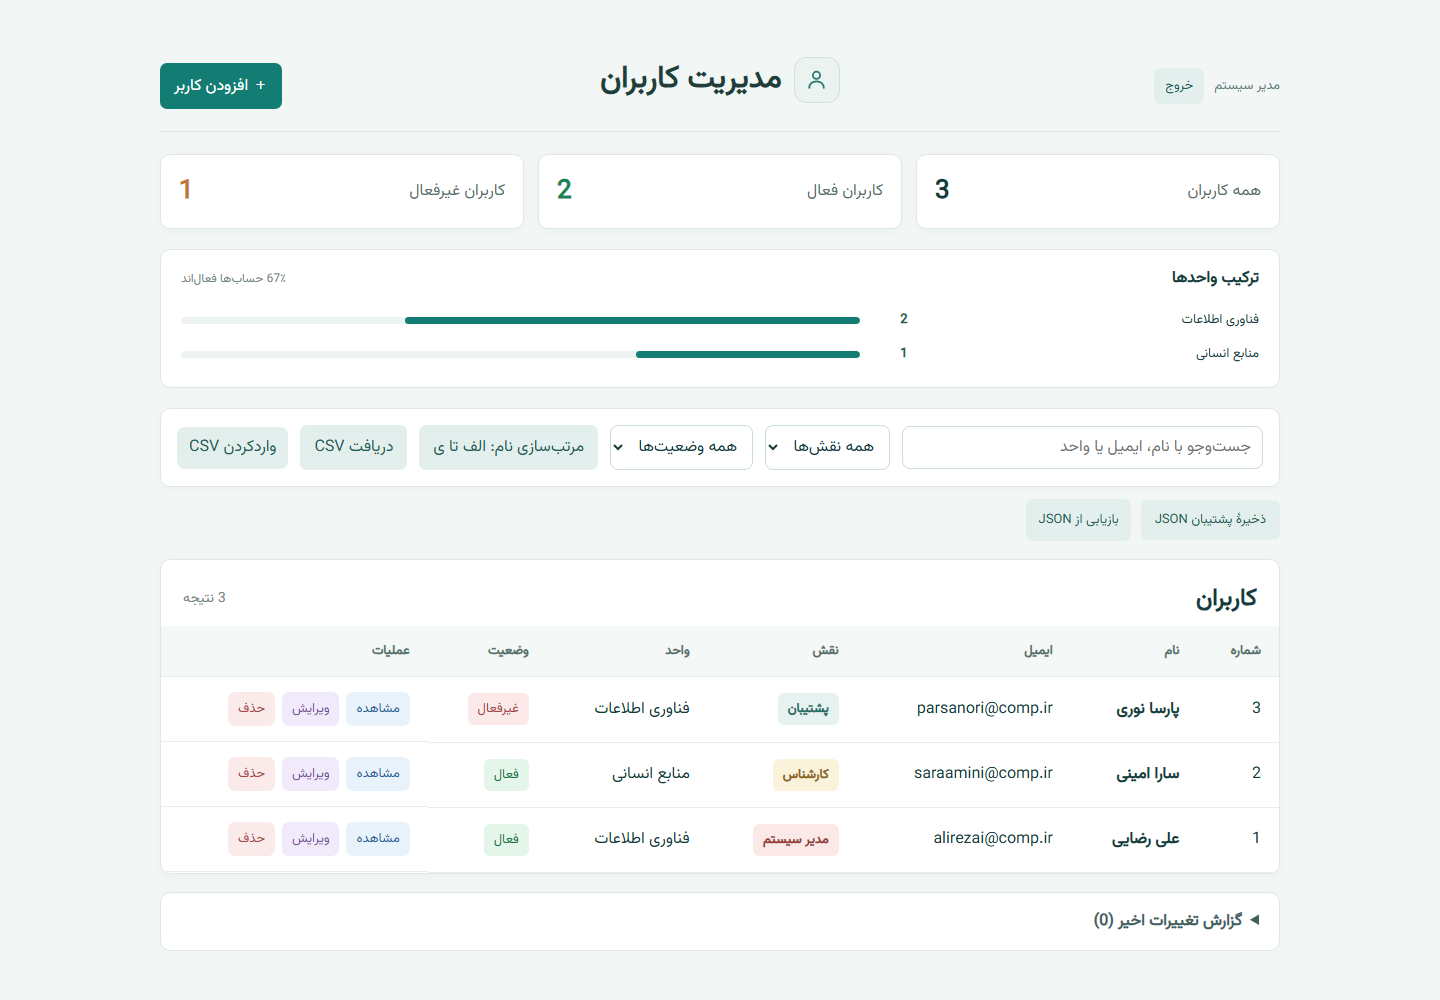
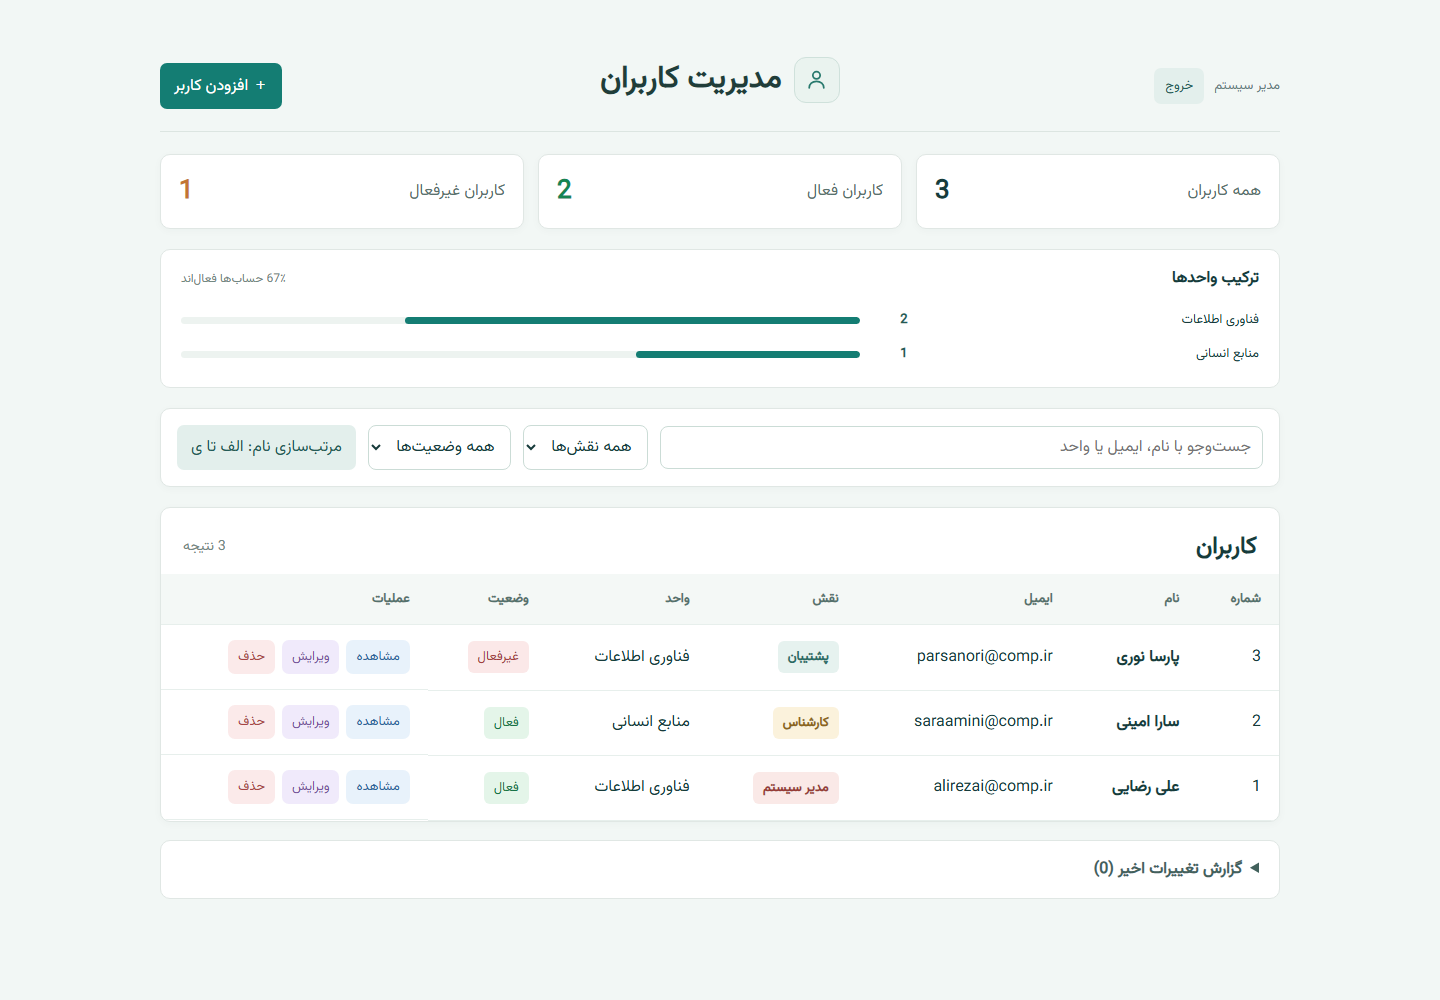
Remove file actions from user interface

diff --git a/src/app/app.html b/src/app/app.html
@@ -77,27 +77,6 @@
     <button class="secondary-button" type="button" (click)="toggleSort()">
       مرتبسازی نام: {{ sortAscending ? 'الف تا ی' : 'ی تا الف' }}
     </button>
-    <button class="secondary-button" type="button" (click)="exportUsers()">
-      دریافت CSV
-    </button>
-    <label class="import-button">
-      واردکردن CSV
-      <input type="file" accept=".csv,text/csv" (change)="importUsers($event)" />
-    </label>
-  </section>
-
-  @if (csvMessage) {
-    <p class="csv-message" role="status">{{ csvMessage }}</p>
-  }
-  <section class="backup-actions" aria-label="پشتیبانگیری کاربران">
-    <button class="secondary-button" type="button" (click)="exportBackup()">
-      ذخیرهٔ پشتیبان JSON
-    </button>
-    <label class="import-button">
-      بازیابی از JSON
-      <input type="file" accept=".json,application/json" (change)="restoreBackup($event)" />
-    </label>
-    @if (backupMessage) { <span role="status">{{ backupMessage }}</span> }
   </section>
 
   @if (lastDeletedUser) {

diff --git a/src/app/app.css b/src/app/app.css
@@ -115,10 +115,6 @@ input, select {
   background: #fff;
 }
 .toolbar input { flex: 1; min-width: 200px; }
-.import-button { display: inline-flex; min-height: 42px; align-items: center; padding: 8px 12px; border-radius: 8px; color: #245b56; background: #e3efec; cursor: pointer; }
-.import-button input { display: none; }
-.csv-message { color: #286b64; }
-.backup-actions { display: flex; align-items: center; gap: 10px; margin: -8px 0 18px; color: #66817d; font-size: 13px; }
 
 .form-card { margin-bottom: 20px; padding: 22px; }
 form { display: grid; grid-template-columns: repeat(2, minmax(0, 1fr)); gap: 16px; }

diff --git a/README.md b/README.md
@@ -1,47 +1,40 @@
 # مدیریت کاربران
 
-داشبورد فارسی برای دیدن و مدیریت کاربران یک سازمان. صفحه برای دو نوع دسترسی طراحی شده تا کارهای مدیریتی از فهرست معمولی جدا بماند.
+یک صفحهٔ فارسی برای دیدن فهرست کاربران و انجام کارهای روزمرهٔ مدیریت آنها.
 
-## ورود و دسترسی
+## ۱. ورود و انتخاب نقش
 
-در شروع، نقش مدیر سیستم یا کاربر عادی انتخاب میشود. `authGuard` پیش از باز کردن مسیر، نشست و نقش را میسنجد؛ مدیر وارد `/admin` میشود و کاربر عادی به `/users` میرود.
+در صفحهٔ ورود، نقش مدیر سیستم یا کاربر عادی انتخاب میشود. مدیر وارد پنل مدیریت میشود و کاربر عادی فقط به فهرست دسترسی دارد.
 
-![صفحه ورود و انتخاب نقش](docs/login-view.png)
+![صفحهٔ ورود](docs/login-view.png)
 
-## پنل مدیر
+## ۲. پنل مدیریت
 
-کارتهای بالا تعداد کل، فعال و غیرفعال را نشان میدهند. بخش ترکیب واحدها سهم هر واحد را خلاصه میکند و جدول برای هر کاربر نقش، واحد، وضعیت و عملیات مرتبط را کنار هم میآورد.
+- تعداد کل کاربران و شمار کاربران فعال و غیرفعال در بالای صفحه دیده میشود.
+- نمودار کوچک، پراکندگی کاربران در واحدهای سازمانی را نشان میدهد.
+- رنگ نقشها و وضعیت حساب کمک میکند ردیفها سریعتر از هم تشخیص داده شوند.
 
-![داشبورد مدیریت کاربران](docs/user-management-dashboard.png)
+![فهرست و آمار کاربران](docs/user-management-dashboard.png)
 
-### افزودن و ویرایش
+## ۳. افزودن، ویرایش و حذف
 
-یک فرم برای ثبت کاربر تازه و ویرایش اطلاعات قبلی استفاده میشود. نام و ایمیل اعتبارسنجی میشوند و ایمیل تکراری ــ حتی با فاصله یا حروف بزرگ ــ پذیرفته نمیشود.
+فرم مشترک برای ثبت کاربر تازه یا ویرایش اطلاعات او به کار میرود. نام و ایمیل بررسی میشوند و یک ایمیل را نمیتوان برای دو کاربر ثبت کرد. حذف با تأیید انجام میشود و آخرین حذف را میتوان برگرداند.
 
-### حذف و جزئیات
+دکمهٔ مشاهده هم جزئیات هر کاربر را جداگانه باز میکند.
 
-حذف پس از تأیید انجام میشود و آخرین حذف را میتوان برگرداند. دکمهٔ مشاهده، جزئیات کاربر را جدا از جدول باز میکند.
+## ۴. دسترسی کاربر عادی
 
-## فهرست کاربر عادی
+این نقش میتواند فهرست را ببیند و در آن جستوجو کند؛ دکمههای مدیریتی فقط در پنل مدیر قرار دارند.
 
-کاربر عادی میتواند فهرست را جستوجو کند، اما دکمههای مدیریتی افزودن، ویرایش و حذف در این مسیر در دسترس نیستند.
+![فهرست فقطخواندنی](docs/regular-user-list.png)
 
-![نمای فقطخواندنی فهرست کاربران](docs/regular-user-list.png)
+## ۵. جستوجو و مرتبسازی
 
-## جستوجو و مرتبسازی
+جستوجو نام، ایمیل و واحد سازمانی را میگردد. میتوان نتیجهها را همزمان بر اساس نقش و وضعیت محدود کرد و نامها را در دو جهت الفبایی مرتب کرد. اگر موردی پیدا نشود، جدول پیام میدهد.
 
-جستوجو نام، ایمیل و واحد سازمانی را بررسی میکند. فیلتر نقش و وضعیت با جستوجو ترکیب میشوند و مرتبسازی نام، ترتیب الفبایی را برعکس میکند. اگر نتیجهای نباشد، جدول پیام مناسب نشان میدهد.
+## ۶. سابقهٔ تغییرها و نگهداری اطلاعات
 
-## فایلها و گزارش تغییرات
-
-- خروجی CSV شامل نتیجههای فیلترشده است؛ CSV ورودی بررسی میشود و ردیف نامعتبر یا ایمیل تکراری کنار گذاشته میشود.
-- فایل پشتیبان JSON کل فهرست را ذخیره میکند و هنگام بازیابی، قالب و رکوردها اعتبارسنجی میشوند.
-- گزارش فعالیت، آخرین تغییرهای کاربرها را نگه میدارد و از داخل پنل پاک میشود.
-- فهرست در `localStorage` و نقش نشست در `sessionStorage` مرورگر ذخیره میشود.
-
-## ساختار کد
-
-`user.model.ts` شکل و نوع داده را تعریف میکند. `UserService` مسئول فهرست، فیلترها و ذخیرهسازی است؛ سرویسهای آمار، CSV، پشتیبان و گزارش هرکدام کار مشخصی دارند. `App` وضعیت پنل مدیر را نگه میدارد و قالبهای Angular آن را نمایش میدهند. مسیرها در `app.routes.ts` تعریف شدهاند و بررسی دسترسی در `auth.guard.ts` انجام میشود.
+پنل، آخرین تغییرهای انجامشده را ثبت میکند و امکان پاککردن این سابقه را دارد. فهرست کاربران و نقش نشست در مرورگر نگهداری میشوند تا پس از تازهکردن صفحه باقی بمانند.
 
 ## اجرا
 
